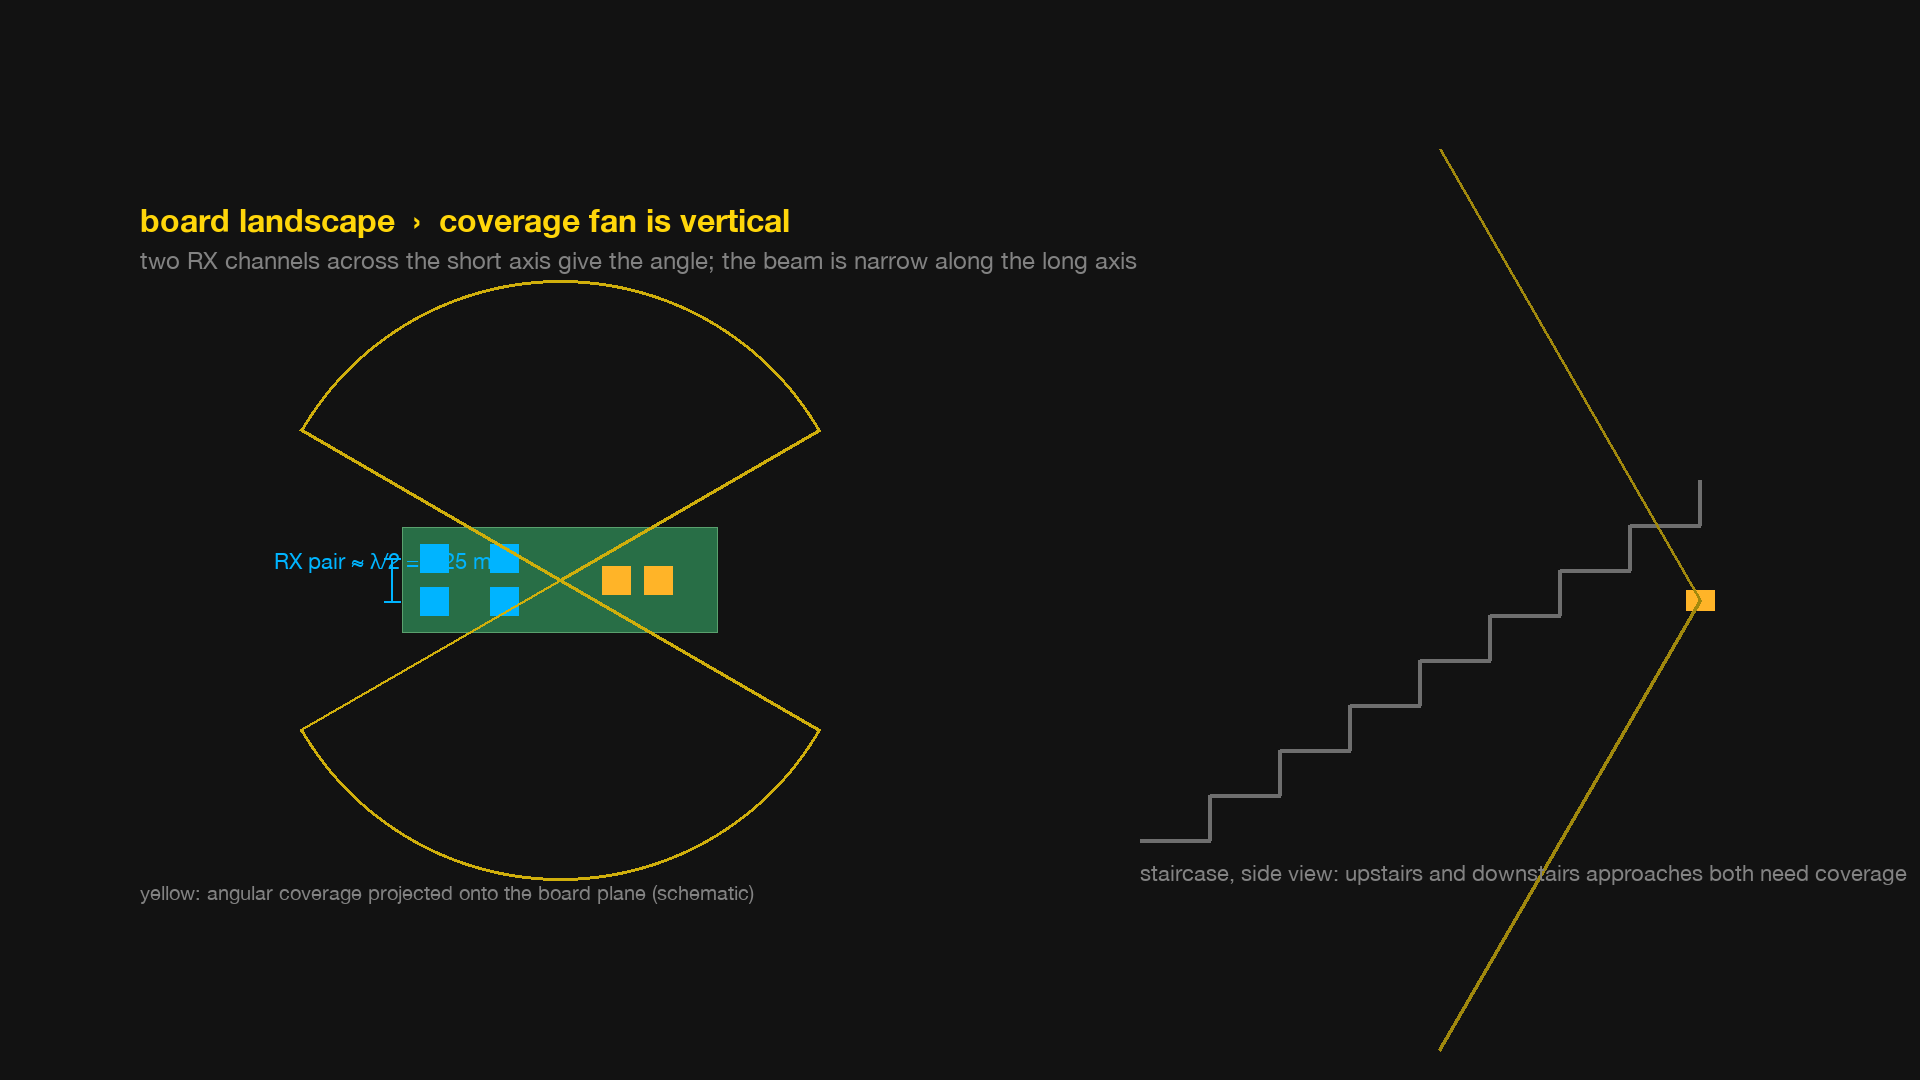
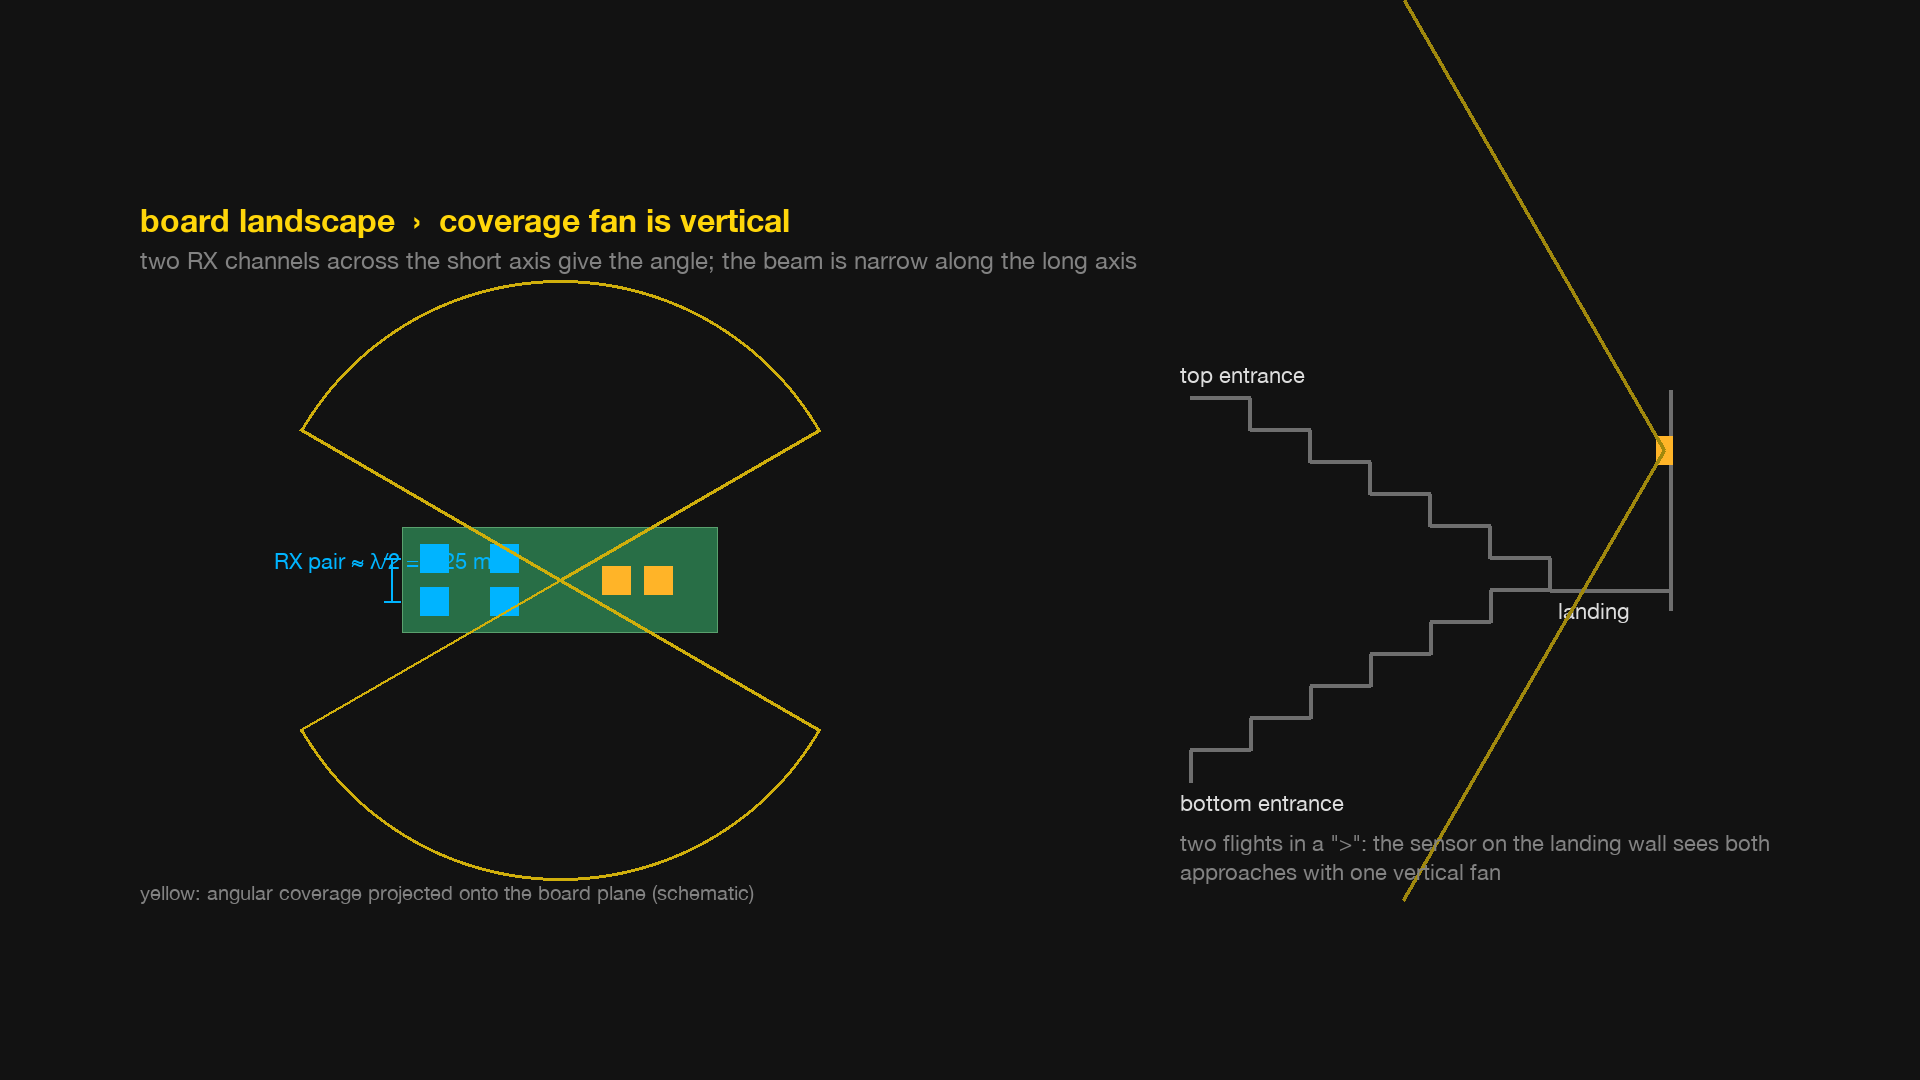
Staircase diagram: two flights in a '>' with the sensor on the landing; pause both sides of 'C'

diff --git a/video/build_video.py b/video/build_video.py
@@ -876,21 +876,36 @@ def diag_orientation(d, t, u, box=(140, 200, 1780, 920)):
     d.text((x0, y0), lab, font=font(32, bold=True), fill=YEL)
     d.text((x0, y0 + 46), "two RX channels across the short axis give the angle; the beam is narrow along the long axis", font=font(24), fill=DIM)
     d.text((x0, y1 - 40), "yellow: angular coverage projected onto the board plane (schematic)", font=font(20), fill=DIM)
-    # staircase side view
-    sx0 = x1 - 640; base = y1 - 80
-    pts = [(sx0, base)]
-    for i in range(8):
-        pts.append((sx0 + i * 70, base - i * 45)); pts.append((sx0 + (i + 1) * 70, base - i * 45))
-    pts.append((sx0 + 8 * 70, base - 8 * 45))
-    d.line(pts, fill=(110, 110, 110), width=4)
-    # sensor on wall at mid height, fan vertical when landscape
-    sxs, sys_ = sx0 + 560, base - 4 * 45 - 60
-    d.rectangle((sxs - 14, sys_ - 10, sxs + 14, sys_ + 10), fill=C3)
+    # staircase side view: two flights in a ">" - landing (and sensor) at the apex on the right,
+    # top and bottom entrances on the left
+    Lx = x1 - 110; mid = (y0 + y1) / 2 + 30          # landing right edge, landing floor height
+    tread, rise, n = 60, 32, 6
+    land_w = 120; grey = (110, 110, 110)
+    px0 = Lx - land_w - n * tread                    # left end of both flights
+    d.line([(Lx - land_w, mid), (Lx, mid)], fill=grey, width=4)                       # landing floor
+    d.line([(Lx, mid - 200), (Lx, mid + 20)], fill=grey, width=4)                     # landing wall (sensor mount)
+    up = [(Lx - land_w, mid)]
+    for i in range(n):                                                                # upper flight: up and to the left
+        x = Lx - land_w - i * tread; y = mid - i * rise
+        up += [(x, y - rise), (x - tread, y - rise)]
+    d.line(up, fill=grey, width=4)
+    dn = [(Lx - land_w, mid)]
+    for i in range(n):                                                                # lower flight: down and to the left
+        x = Lx - land_w - i * tread; y = mid + i * rise
+        dn += [(x - tread, y), (x - tread, y + rise)]
+    d.line(dn, fill=grey, width=4)
+    d.text((px0 - 10, mid - n * rise - 36), "top entrance", font=font(22), fill=FG)
+    d.text((px0 - 10, mid + n * rise + 8), "bottom entrance", font=font(22), fill=FG)
+    d.text((Lx - land_w + 8, mid + 8), "landing", font=font(22), fill=FG)
+    # sensor on the landing wall at about head height, looking left; fan goes vertical as the board turns landscape
+    sxs, sys_ = Lx - 6, mid - 140
+    d.rectangle((sxs - 8, sys_ - 14, sxs + 8, sys_ + 14), fill=C3)
     spread = lerp(8, 60, ease(u))
     for sgn in (-1, 1):
         a = math.radians(180 + sgn * spread)
         d.line([(sxs, sys_), (sxs + 520 * math.cos(a), sys_ - 520 * math.sin(a))], fill=mix(BG, YEL, 0.6), width=3)
-    d.text((sx0, base + 20), "staircase, side view: upstairs and downstairs approaches both need coverage", font=font(22), fill=DIM)
+    paragraph(d, (px0 - 10, mid + n * rise + 48), "two flights in a \">\": the sensor on the landing wall sees both approaches with one vertical fan",
+              font(22), DIM, x1 - px0 + 10)
 
 def diag_clips(d, t, u, box=(140, 200, 1780, 920)):
     x0, y0, x1, y1 = box

diff --git a/video/make_audio.py b/video/make_audio.py
@@ -37,7 +37,7 @@ SPOKEN = [
     ("Fusion 360", "Fusion three sixty"),
     ("RD-03D", "R, D zero three D"),
     ("RISC-V", "RISC Five"),
-    ("written as plain C", "written as plain, C"),
+    ("written as plain C and", "written as plain, C, and"),
     ("OpenSCAD", "Open S CAD"),
     ("0.6 millimetre", "point six millimetre"),
     ("0.6 mm", "point six millimetre"),
